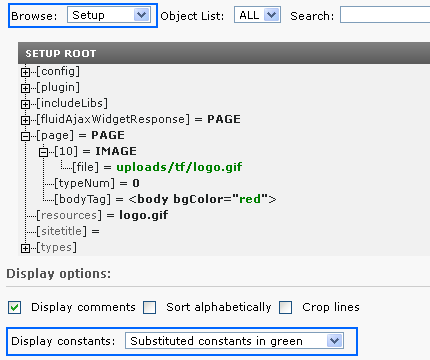
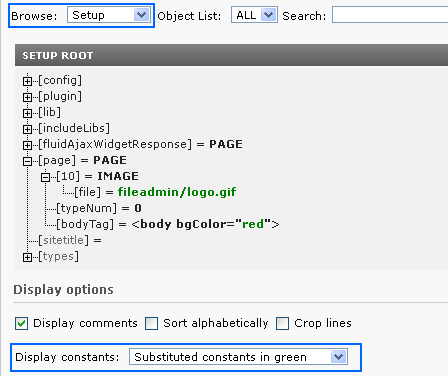
{TASK] Update notes on the "Resource" field of TypoScript templates
In TYPO3 6.0 the "resource" field of TypoScript templates has been
removed. Update the document accordingly.

Resolves: #45835

diff --git a/Documentation/TypoScriptTemplates/Constants/Index.rst b/Documentation/TypoScriptTemplates/Constants/Index.rst
@@ -21,9 +21,9 @@ Constants are values defined in the "Constants"-field of a template.
 They follow the syntax of ordinary TypoScript!
 
 **Note, reserved name:** The object or property "file" is always
-interpreted as data type "resource". That means it refers to a file,
-which you have to upload in the resource section of your template
-record.
+interpreted as data type ":ref:`resource
+<t3tsref:data-type-resource>`". That means it refers to a file, which
+you have to upload in your TYPO3 installation.
 
 **Note: The top-level "object" TSConstantEditor** cannot be used. It's
 reserved for configuration of the Constant Editor module.
@@ -32,27 +32,36 @@ reserved for configuration of the Constant Editor module.
 Example:
 ~~~~~~~~
 
-Here "bgCol" is set to "red" and "file.toplogo" is set to "logo.gif".
-which is found in the resource-field of the template. ::
+Here "bgCol" is set to "red", "file.toplogo" is set to
+"fileadmin/logo.gif" and "topimg.file.pic2" is set to
+"fileadmin/logo2.gif"; these files must be uploaded in your
+installation.
+
+.. code-block::
+   :emphasize-lines: 3,4
 
    bgCol = red
    topimg.width = 200
    topimg.file.pic2 = fileadmin/logo2.gif
-   file.toplogo = logo.gif
+   file.toplogo = fileadmin/logo.gif
 
-This could also be defined in other ways, e.g. like this::
+This could also be defined in other ways, e.g. like this:
+
+.. code-block::
+   :emphasize-lines: 2,7
 
    bgCol = red
    file {
-     toplogo = logo.gif
+     toplogo = fileadmin/logo.gif
    }
    topimg {
      width = 200
      file.pic2 = fileadmin/logo2.gif
    }
 
-(The objects in bold are the reserved word "file" and the properties
-are always of data type "resource".)
+(The objects in the highlighted lines contain the reserved word "file"
+and the properties are always of data type ":ref:`resource
+<t3tsref:data-type-resource>`".)
 
 .. figure:: ../../Images/TSTemplatesConstants.png
    :alt: Overview of the defined constants.

diff --git a/Documentation/TypoScriptTemplates/UsingConstants/Index.rst b/Documentation/TypoScriptTemplates/UsingConstants/Index.rst
@@ -32,14 +32,16 @@ Example:
    page.10 = IMAGE
    page.10.file = {$file.toplogo}
 
-**Only constants, which are defined** in the "Constants" field, are
-substituted. So for our example to work, we again have to define the
-constants from the last example in the constants field.
+**Only constants, which are actually defined** in the "Constants"
+field, are substituted. So for our example to work, we again have to
+define the constants from the last example in the constants field.
 
-Remember that in the constants field you can **reference files
-without giving a file path** (like we did for logo.gif). For the
-replacement to work, you must upload these files in the resources
-section of the template.
+In contrast to TYPO3 versions prior to 6.0 you can **no longer**
+reference files in the constants field without giving a file *path*
+(except the file is located in the root directory of your TYPO3
+installation). Instead you have to define file name *and path*, in our
+case for logo.gif. For the replacement to work, you must upload the
+file in the according folder of your TYPO3 installation.
 
 Constants in included templates are also substituted as the whole
 template is just one large chunk of text.
@@ -54,8 +56,7 @@ inspiration in the code examples around.
 
 Notice how the constants in the setup code are substituted (marked in
 green). In the Object Browser, you can monitor the constants with or
-without substitution. Also notice that the value "logo.gif" was
-resolved to the resource "uploads/tf/logo.gif"
+without substitution.
 
 (Note: The "Display constants" function is not available if you select
 "Crop lines".)

diff --git a/Documentation/TypoScriptTemplates/TheConstantEditor/Index.rst b/Documentation/TypoScriptTemplates/TheConstantEditor/Index.rst
@@ -315,8 +315,7 @@ normally would.
          and contain numbered marks, that indicate positions that are referred
          to by the constants, listed in the number-array.
 
-         The image must be located in "gfx/" in the module path OR be a file
-         from the resource-list of the template.
+         The image must be located in "gfx/" in the module path.
 
 
 .. container:: table-row
